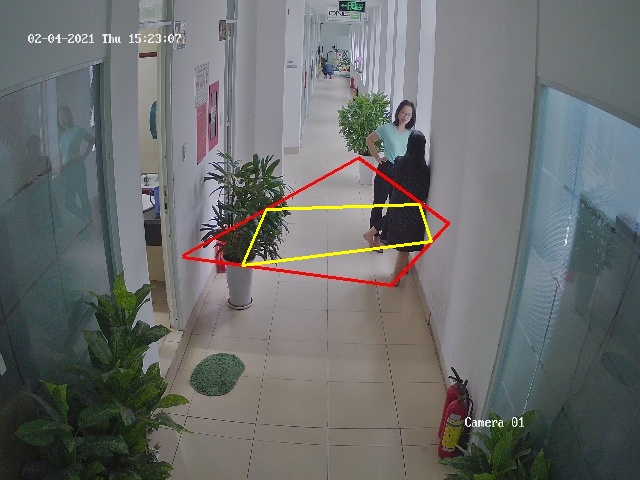
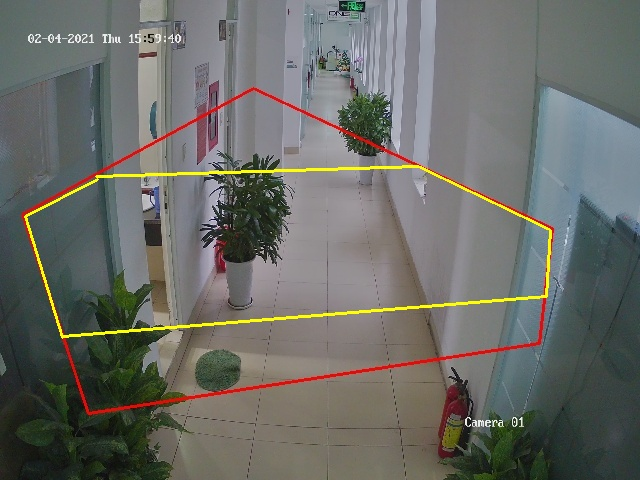
update draw region and counting for demo.py file

diff --git a/demo.py b/demo.py
@@ -11,9 +11,39 @@ import cv2
 import time
 
 # all global variables
-global th, path, light_alarm, sound_alarm, both_alarm, count
+global th, \
+    path, \
+    light_alarm, \
+    sound_alarm, \
+    both_alarm, \
+    count,  \
+    height, \
+    width, \
+    draw_region_points, \
+    default_region_points, \
+    draw_region_flag, \
+    draw_count_flag, \
+    default_counting_points, \
+    draw_counting_points
+
+# variables
 path = None
 count = 0
+height = 480
+width = 640
+draw_region_points = []
+extra_pixels = 5  # for default points
+default_region_points = [
+    [(0+extra_pixels, 0+extra_pixels), (width-extra_pixels, 0+extra_pixels)],
+    [(width-extra_pixels, 0+extra_pixels), (width-extra_pixels, height-extra_pixels)],
+    [(width-extra_pixels, height-extra_pixels), (0+extra_pixels, height-extra_pixels)],
+    [(0+extra_pixels, height-extra_pixels), (0+extra_pixels, 0+extra_pixels)]
+]
+draw_region_flag = False
+
+draw_counting_points = []
+default_counting_points = [[(0, int(height/2)), (width, int(height/2))]]
+draw_count_flag = False
 
 
 class Thread(QtCore.QThread):
@@ -24,13 +54,40 @@ class Thread(QtCore.QThread):
         self._go = None
 
     def run(self):
-        global count
+        global count, \
+            height, \
+            width, \
+            draw_region_points, \
+            default_region_points, \
+            draw_region_flag, \
+            default_counting_points, \
+            draw_count_flag, \
+            draw_counting_points
         cap = cv2.VideoCapture(path)
         self._go = True
         while self._go:
             ret, frame = cap.read()
             if ret:
-                frame = cv2.resize(frame, (640, 480))
+                frame = cv2.resize(frame, (width, height))
+
+                # condition to draw region
+                if not draw_region_flag:
+                    final_region_points = default_region_points
+                else:
+                    final_region_points = draw_region_points
+                # draw region
+                for i, point in enumerate(final_region_points):
+                    cv2.line(frame, point[0], point[1], (0, 0, 255), 2)
+
+                # condition to draw counting region
+                if not draw_count_flag:
+                    final_counting_points = default_counting_points
+                else:
+                    final_counting_points = draw_counting_points
+                # draw counting region
+                for i, point in enumerate(final_counting_points):
+                    cv2.line(frame, point[0], point[1], (0, 255, 255), 2)
+
                 rgbImage = cv2.cvtColor(frame, cv2.COLOR_BGR2RGB)
                 h, w, ch = rgbImage.shape
                 bytesPerLine = ch * w
@@ -42,9 +99,17 @@ class Thread(QtCore.QThread):
                 time.sleep(0.5)
 
     def stop_thread(self):
-        global path
+        global path, \
+            draw_region_flag, \
+            default_region_points, \
+            default_counting_points, \
+            draw_count_flag
         self._go = False
         path = None
+        draw_region_flag = False
+        draw_count_flag = False
+        default_counting_points = []
+        default_region_points = []
 
 
 def close_window():
@@ -81,6 +146,93 @@ def check_input_frame():
     alert.exec_()
     th.stop_thread()
     time.sleep(1)
+
+
+def mouse_callback(event, x, y, flags, param):
+    global mouse_down
+    global step
+
+    mouse_down = False
+
+    if event == cv2.EVENT_LBUTTONDOWN:
+        if mouse_down is False:
+            mouse_down = True
+            step = 0
+        else:
+            step += 1
+
+    elif event == cv2.EVENT_LBUTTONUP and mouse_down:
+        mouse_down = False
+
+
+def shape_selection_for_region(event, x, y, flags, param):
+    global ref_point, draw_region_points
+    if event == cv2.EVENT_LBUTTONDOWN:
+        ref_point = [(x, y)]
+    elif event == cv2.EVENT_LBUTTONUP:
+
+        ref_point.append((x, y))
+        draw_region_points.append(ref_point)
+        cv2.line(image, ref_point[0], ref_point[1], (0, 0, 255), 2)
+        cv2.imshow("Draw ROI", image)
+
+
+def shape_selection_for_counting(event, x, y, flags, param):
+    global ref_point_c, draw_counting_points
+    if event == cv2.EVENT_LBUTTONDOWN:
+        ref_point_c = [(x, y)]
+    elif event == cv2.EVENT_LBUTTONUP:
+
+        ref_point_c.append((x, y))
+        draw_counting_points.append(ref_point_c)
+        cv2.line(image, ref_point_c[0], ref_point_c[1], (0, 255, 255), 2)
+        cv2.imshow("Draw Counting Region", image)
+
+
+def draw_region():
+    global path, width, height, draw_region_points, image, draw_region_flag
+    draw_region_flag = True
+    # read and write original image
+    cap = cv2.VideoCapture(path)
+    ret, frame = cap.read()
+    frame = cv2.resize(frame, (width, height))
+    if ret:
+        cv2.imwrite("original_image.jpg", frame)
+        # draw on original image and write when done
+        image = cv2.imread("original_image.jpg")
+        clone = image.copy()
+        cv2.namedWindow("Draw ROI")
+        cv2.setMouseCallback("Draw ROI", shape_selection_for_region)
+        while True:
+            cv2.imshow("Draw ROI", image)
+            key = cv2.waitKey(1)
+            if key == 32:
+                image = clone.copy()
+                draw_region_points = []
+            elif key == 13:
+                break
+    cv2.imwrite('draw_region_image.jpg', image)
+    cap.release()
+    cv2.destroyAllWindows()
+
+
+def draw_counting():
+    global path, width, height, draw_counting_points, image, draw_count_flag
+    draw_count_flag = True
+    image = cv2.imread("draw_region_image.jpg")
+    clone = image.copy()
+    cv2.namedWindow("Draw Counting Region")
+    cv2.setMouseCallback("Draw Counting Region", shape_selection_for_counting)
+    while True:
+        cv2.imshow("Draw Counting Region", image)
+        key = cv2.waitKey(1)
+        if key == 32:
+            image = clone.copy()
+            draw_counting_points = []
+        elif key == 13:
+            break
+    cv2.imwrite('draw_counting_image.jpg', image)
+    cv2.destroyAllWindows()
 
 
 def restore(settings):
@@ -274,12 +426,14 @@ class Ui_MainWindow(object):
         self.drawregionbutton.setGeometry(QtCore.QRect(790, 470, 100, 50))
         self.drawregionbutton.setPalette(palette)
         self.drawregionbutton.setObjectName("drawregionbutton")
+        self.drawregionbutton.clicked.connect(self.region)
 
         # draw couting line button
         self.drawcountingbutton = QtWidgets.QPushButton(self.centralwidget)
         self.drawcountingbutton.setGeometry(QtCore.QRect(790, 540, 100, 50))
         self.drawcountingbutton.setPalette(palette)
         self.drawcountingbutton.setObjectName("drawcountingbutton")
+        self.drawcountingbutton.clicked.connect(self.counting)
 
         # stop button
         self.stopbutton = QtWidgets.QPushButton(self.centralwidget)
@@ -836,6 +990,20 @@ class Ui_MainWindow(object):
         self.retranslateUi(MainWindow)
         QtCore.QMetaObject.connectSlotsByName(MainWindow)
 
+    def region(self):
+        global path
+        if path is None or len(path) == 0:
+            camera_source_alarm()
+        else:
+            draw_region()
+
+    def counting(self):
+        global path
+        if path is None or len(path) == 0:
+            camera_source_alarm()
+        else:
+            draw_counting()
+
     def check_alarm_option(self):
         global light_alarm, sound_alarm, both_alarm
         if self.light_radio_button.isChecked():
@@ -919,7 +1087,7 @@ class MainWindow(QtWidgets.QMainWindow, Ui_MainWindow):
         super().__init__(*args, **kwargs)
         self.setupUi(self)
         self.settings = QtCore.QSettings()
-        print(self.settings.fileName())
+        # print(self.settings.fileName())
         restore(self.settings)
 
     def closeEvent(self, event):

diff --git a/draw_region_test.py b/draw_region_test.py
@@ -17,7 +17,8 @@ global th, \
     light_alarm, \
     sound_alarm, \
     both_alarm, \
-    count, height, \
+    count, \
+    height, \
     width, \
     draw_region_points, \
     default_region_points, \
@@ -44,6 +45,7 @@ draw_region_flag = False
 draw_counting_points = []
 default_counting_points = [[(0, int(height/2)), (width, int(height/2))]]
 draw_count_flag = False
+
 
 class Thread(QtCore.QThread):
     changePixmap = QtCore.pyqtSignal(QtGui.QImage)
@@ -301,7 +303,7 @@ class Ui_MainWindow(object):
         self.draw_count_button = QtWidgets.QPushButton(self.centralwidget)
         self.draw_count_button.setGeometry(QtCore.QRect(730, 280, 89, 25))
         self.draw_count_button.setObjectName("draw_count_button")
-        self.draw_count_button.clicked.connect(draw_counting)
+        self.draw_count_button.clicked.connect(self.counting)
 
 
         self.start_button = QtWidgets.QPushButton(self.centralwidget)
@@ -340,6 +342,13 @@ class Ui_MainWindow(object):
             camera_source_alarm()
         else:
             draw_region()
+
+    def counting(self):
+        global path
+        if path is None or len(path) == 0:
+            camera_source_alarm()
+        else:
+            draw_counting()
 
     def video(self):
         global path, count
